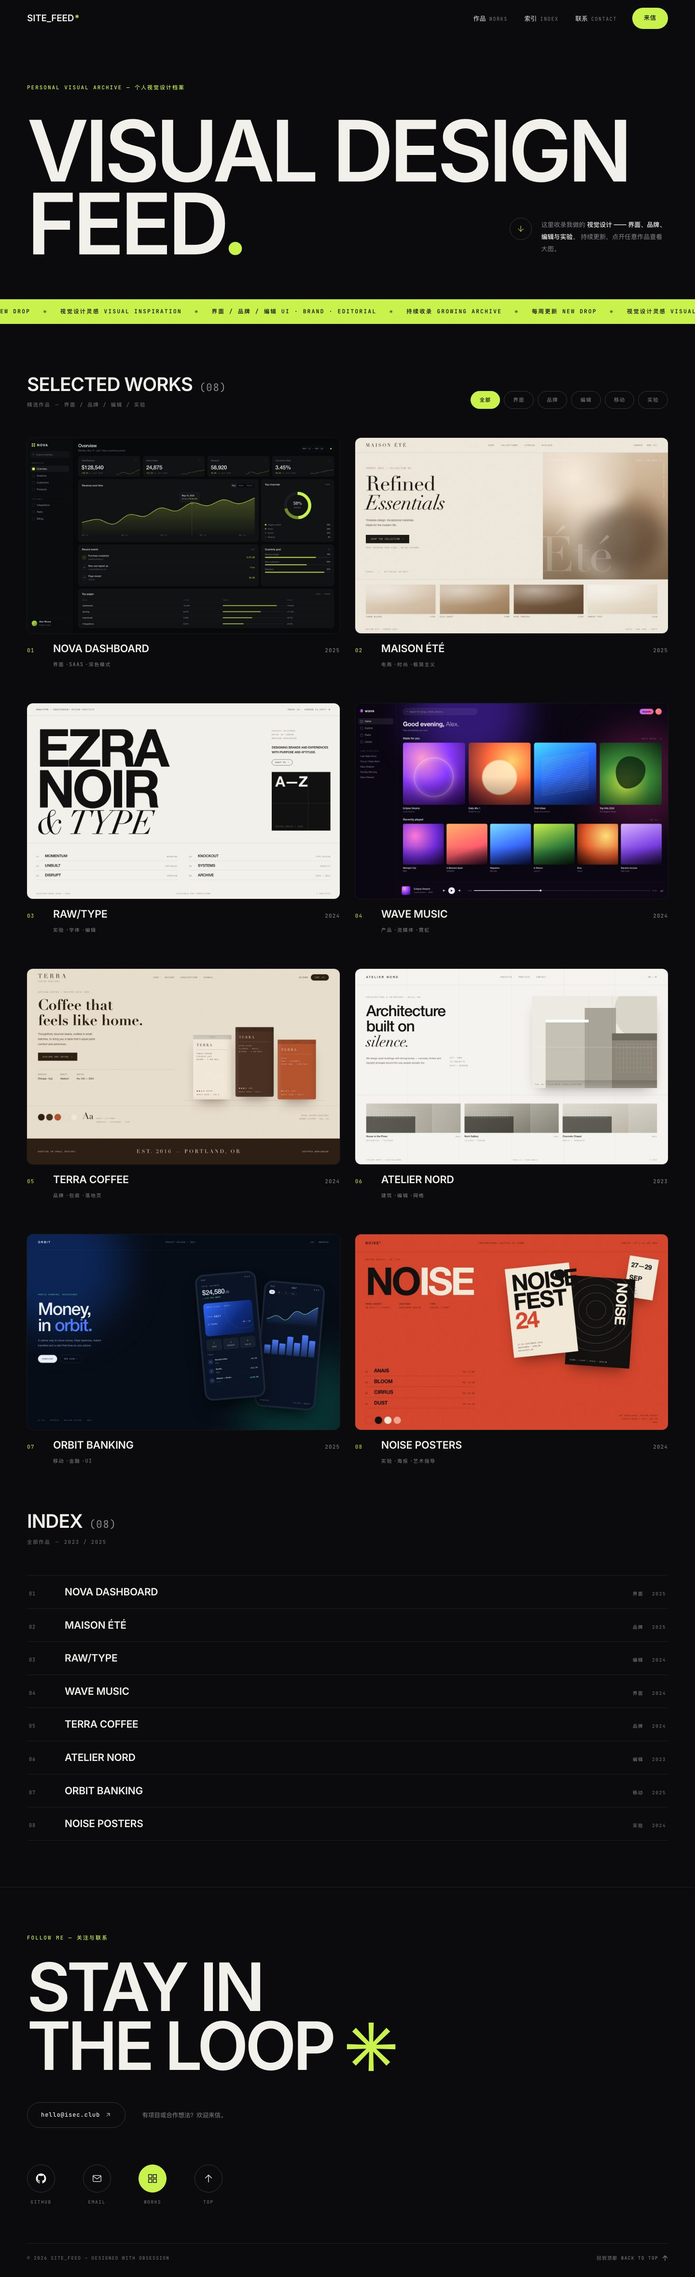
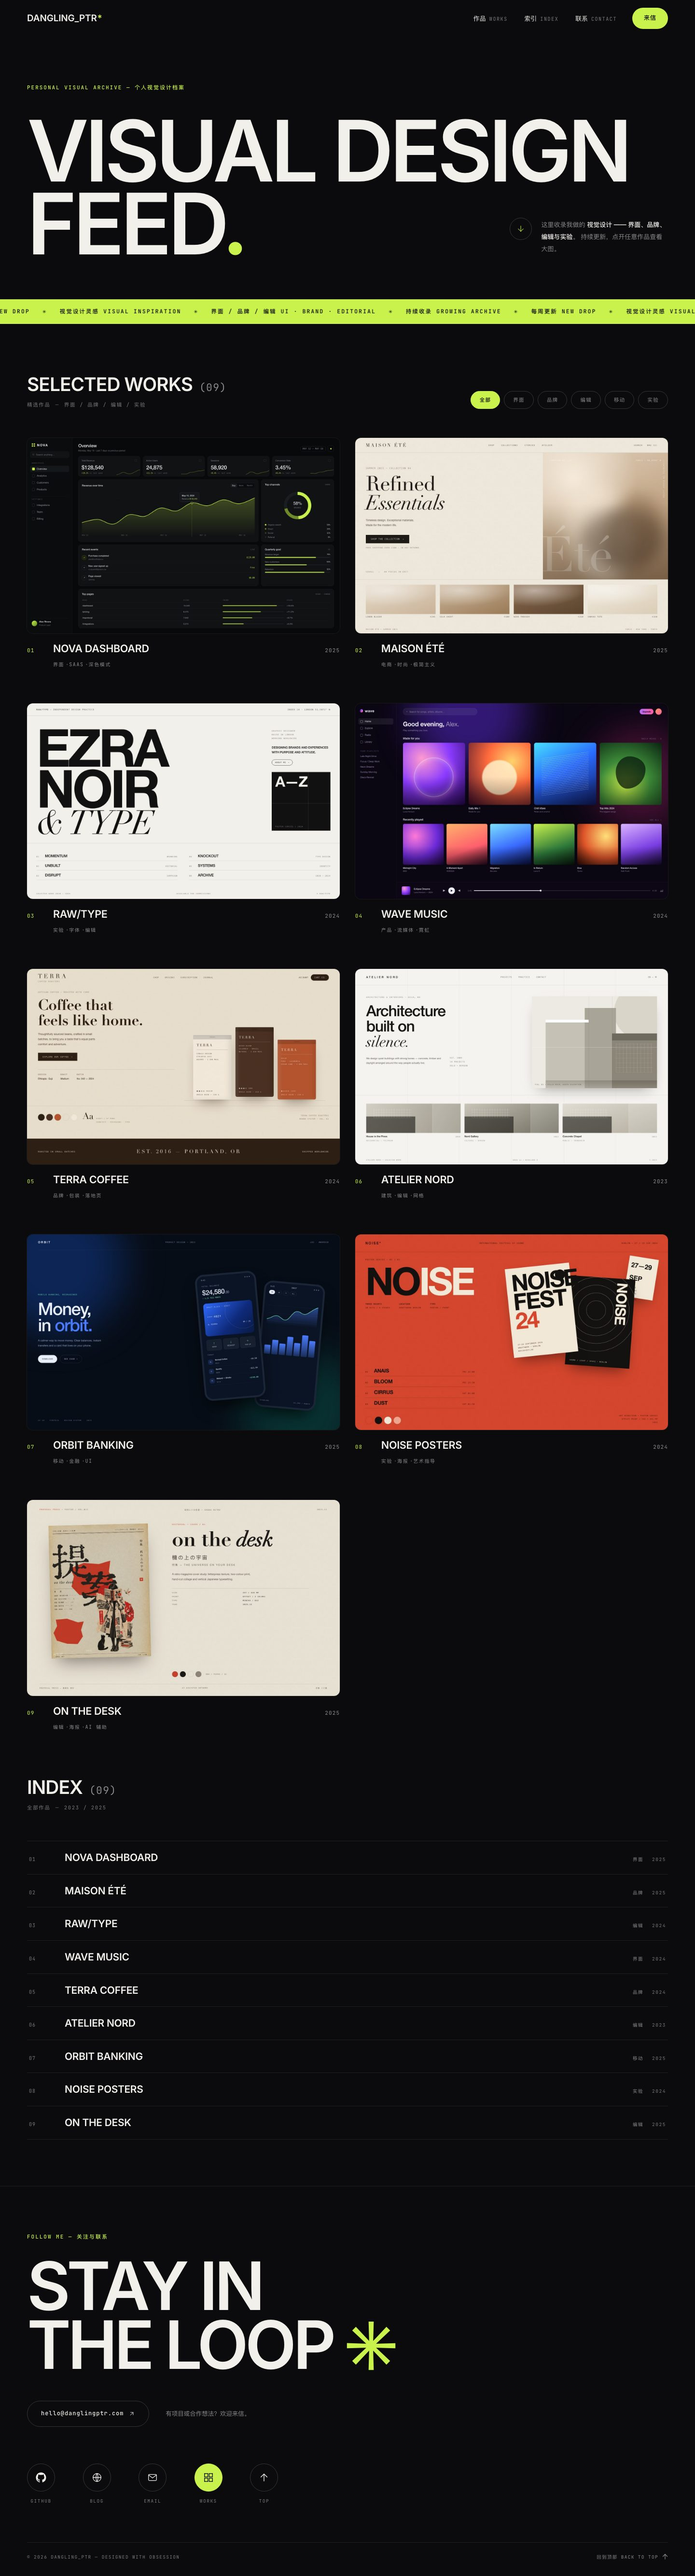
[更新] 手工补录数据档

diff --git a/index.html b/index.html
@@ -4,23 +4,23 @@
 <meta charset="utf-8">
 <script>document.documentElement.className = "js";</script>
 <meta name="viewport" content="width=device-width, initial-scale=1">
-<title>SITE_FEED — 视觉设计档案</title>
+<title>DANGLING_PTR — 视觉设计档案</title>
 <meta name="description" content="个人视觉设计档案：界面、品牌、编辑与实验。精选作品持续更新。">
-<meta name="author" content="SITE_FEED">
+<meta name="author" content="DANGLING_PTR">
 <meta name="theme-color" content="#0b0b0d">
-<link rel="canonical" href="https://isec.club/">
+<link rel="canonical" href="https://dr4g00n.github.io/">
 <link rel="icon" href="/images/favicon.svg" type="image/svg+xml">
 
 <meta property="og:type" content="website">
-<meta property="og:site_name" content="SITE_FEED">
-<meta property="og:title" content="SITE_FEED — 视觉设计档案">
+<meta property="og:site_name" content="DANGLING_PTR">
+<meta property="og:title" content="DANGLING_PTR — 视觉设计档案">
 <meta property="og:description" content="个人视觉设计档案：界面、品牌、编辑与实验。">
-<meta property="og:url" content="https://isec.club/">
-<meta property="og:image" content="https://isec.club/images/works/01-nova.jpg">
+<meta property="og:url" content="https://dr4g00n.github.io/">
+<meta property="og:image" content="https://dr4g00n.github.io/images/works/01-nova.jpg">
 <meta name="twitter:card" content="summary_large_image">
-<meta name="twitter:title" content="SITE_FEED — 视觉设计档案">
+<meta name="twitter:title" content="DANGLING_PTR — 视觉设计档案">
 <meta name="twitter:description" content="个人视觉设计档案：界面、品牌、编辑与实验。">
-<meta name="twitter:image" content="https://isec.club/images/works/01-nova.jpg">
+<meta name="twitter:image" content="https://dr4g00n.github.io/images/works/01-nova.jpg">
 
 <link rel="stylesheet" href="/css/fonts.css">
 <link rel="stylesheet" href="/css/feed.css">
@@ -29,8 +29,8 @@
 {
   "@context": "https://schema.org",
   "@type": "CollectionPage",
-  "name": "SITE_FEED — 视觉设计档案",
-  "url": "https://isec.club/",
+  "name": "DANGLING_PTR — 视觉设计档案",
+  "url": "https://dr4g00n.github.io/",
   "description": "个人视觉设计档案：界面、品牌、编辑与实验。"
 }
 </script>
@@ -41,7 +41,7 @@
 
 <header class="site-head" id="siteHead">
   <div class="wrap site-head__inner">
-    <a class="brand" href="/">SITE_FEED<span class="brand__mark">*</span></a>
+    <a class="brand" href="/">DANGLING_PTR<span class="brand__mark">*</span></a>
 
     <nav class="nav" aria-label="主导航">
       <a class="nav__link" href="#works">作品 <span>WORKS</span></a>
@@ -50,7 +50,7 @@
     </nav>
 
     <div class="site-head__actions">
-      <a class="btn btn--lime" href="mailto:hello@isec.club">来信</a>
+      <a class="btn btn--lime" href="mailto:hello@danglingptr.com">来信</a>
       <button class="burger" id="burger" aria-label="打开菜单" aria-expanded="false" aria-controls="mobileMenu">
         <span></span><span></span>
       </button>
@@ -63,11 +63,12 @@
     <a href="#works">作品 <span>WORKS</span></a>
     <a href="#index">索引 <span>INDEX</span></a>
     <a href="#contact">联系 <span>CONTACT</span></a>
-    <a href="mailto:hello@isec.club">来信 <span>EMAIL</span></a>
+    <a href="mailto:hello@danglingptr.com">来信 <span>EMAIL</span></a>
+    <a href="https://danglingptr.com" target="_blank" rel="noopener">博客 <span>BLOG</span></a>
   </nav>
   <div class="mobile-menu__foot">
-    <a href="mailto:hello@isec.club">hello@isec.club</a>
-    <span>© <span data-year>2026</span> SITE_FEED</span>
+    <a href="mailto:hello@danglingptr.com">hello@danglingptr.com</a>
+    <span>© <span data-year>2026</span> DANGLING_PTR</span>
   </div>
 </div>
 
@@ -116,7 +117,7 @@
     <div class="wrap">
       <div class="section__head">
         <div>
-          <h2 class="section__title">SELECTED WORKS <span class="count">(08)</span></h2>
+          <h2 class="section__title">SELECTED WORKS <span class="count">(09)</span></h2>
           <p class="section__sub">精选作品 － 界面 / 品牌 / 编辑 / 实验</p>
         </div>
 
@@ -236,6 +237,19 @@
           <p class="card__tags"><span>实验</span><span>海报</span><span>艺术指导</span></p>
         </a>
 
+        <a class="card reveal" href="/images/works/09-onthedesk.jpg" data-work data-img="/images/works/09-onthedesk.jpg" data-title="ON THE DESK" data-meta="编辑 · 海报 · 昭和复古 — 2025" data-tags="editorial">
+          <div class="card__media">
+            <img src="/images/works/09-onthedesk.jpg" width="1600" height="1000" alt="ON THE DESK — 昭和复古杂志封面设计" loading="lazy" decoding="async">
+            <span class="card__arrow" aria-hidden="true"><svg viewBox="0 0 24 24" fill="none" stroke="currentColor" stroke-width="1.6" stroke-linecap="round" stroke-linejoin="round"><path d="M7 17 17 7"/><path d="M8 7h9v9"/></svg></span>
+          </div>
+          <div class="card__caption">
+            <span class="card__idx">09</span>
+            <h3 class="card__title">ON THE DESK</h3>
+            <span class="card__year">2025</span>
+          </div>
+          <p class="card__tags"><span>编辑</span><span>海报</span><span>AI 辅助</span></p>
+        </a>
+
       </div>
     </div>
   </section>
@@ -244,7 +258,7 @@
     <div class="wrap">
       <div class="section__head">
         <div>
-          <h2 class="section__title">INDEX <span class="count">(08)</span></h2>
+          <h2 class="section__title">INDEX <span class="count">(09)</span></h2>
           <p class="section__sub">全部作品 － 2023 / 2025</p>
         </div>
       </div>
@@ -274,6 +288,10 @@
         <a class="idx" href="/images/works/08-noise.jpg" data-open="7" data-img="/images/works/08-noise.jpg" data-title="NOISE POSTERS" data-meta="实验 · 海报 · 艺术指导 — 2024">
           <span class="idx__num">08</span><span class="idx__title">Noise Posters</span><span class="idx__cat">实验</span><span class="idx__year">2024</span>
         </a>
+
+        <a class="idx" href="/images/works/09-onthedesk.jpg" data-open="8" data-img="/images/works/09-onthedesk.jpg" data-title="ON THE DESK" data-meta="编辑 · 海报 · 昭和复古 — 2025">
+          <span class="idx__num">09</span><span class="idx__title">On the Desk</span><span class="idx__cat">编辑</span><span class="idx__year">2025</span>
+        </a>
       </div>
     </div>
   </section>
@@ -286,8 +304,8 @@
     <h2 class="footer__headline">STAY IN<br>THE LOOP <span class="star">✳</span></h2>
 
     <div class="footer__contact">
-      <a class="btn btn--ghost" href="mailto:hello@isec.club">
-        hello@isec.club
+      <a class="btn btn--ghost" href="mailto:hello@danglingptr.com">
+        hello@danglingptr.com
         <svg class="btn__arrow" width="14" height="14" viewBox="0 0 24 24" fill="none" stroke="currentColor" stroke-width="1.6" stroke-linecap="round" stroke-linejoin="round" aria-hidden="true"><path d="M7 17 17 7"/><path d="M8 7h9v9"/></svg>
       </a>
       <p class="footer__note">有项目或合作想法？欢迎来信。</p>
@@ -301,7 +319,14 @@
         <span class="social__label">GITHUB</span>
       </a>
 
-      <a class="social" href="mailto:hello@isec.club">
+      <a class="social" href="https://danglingptr.com" target="_blank" rel="noopener">
+        <span class="social__circle">
+          <svg viewBox="0 0 24 24" fill="none" stroke="currentColor" stroke-width="1.4" stroke-linecap="round" stroke-linejoin="round" aria-hidden="true"><circle cx="12" cy="12" r="9"/><path d="M3 12h18"/><path d="M12 3c2.8 3.4 2.8 14.6 0 18"/><path d="M12 3c-2.8 3.4-2.8 14.6 0 18"/></svg>
+        </span>
+        <span class="social__label">BLOG</span>
+      </a>
+
+      <a class="social" href="mailto:hello@danglingptr.com">
         <span class="social__circle">
           <svg viewBox="0 0 24 24" fill="none" stroke="currentColor" stroke-width="1.4" stroke-linecap="round" stroke-linejoin="round" aria-hidden="true"><rect x="3" y="5" width="18" height="14" rx="2"/><path d="m3.5 6.5 8.5 6.5 8.5-6.5"/></svg>
         </span>
@@ -324,7 +349,7 @@
     </div>
 
     <div class="footer__bottom">
-      <span>© <span data-year>2026</span> SITE_FEED — DESIGNED WITH OBSESSION</span>
+      <span>© <span data-year>2026</span> DANGLING_PTR — DESIGNED WITH OBSESSION</span>
       <a class="footer__top" href="#main">
         回到顶部 BACK TO TOP
         <svg viewBox="0 0 12 12" fill="none" stroke="currentColor" stroke-width="1.2" stroke-linecap="round" stroke-linejoin="round" aria-hidden="true"><path d="M6 11V1"/><path d="M1.5 5.5 6 1l4.5 4.5"/></svg>

diff --git a/404.html b/404.html
@@ -4,7 +4,7 @@
 <meta charset="utf-8">
 <script>document.documentElement.className = "js";</script>
 <meta name="viewport" content="width=device-width, initial-scale=1">
-<title>404 — SITE_FEED</title>
+<title>404 — DANGLING_PTR</title>
 <meta name="description" content="页面不存在。">
 <meta name="robots" content="noindex">
 <meta name="theme-color" content="#0b0b0d">
@@ -18,14 +18,14 @@
 
 <header class="site-head" id="siteHead">
   <div class="wrap site-head__inner">
-    <a class="brand" href="/">SITE_FEED<span class="brand__mark">*</span></a>
+    <a class="brand" href="/">DANGLING_PTR<span class="brand__mark">*</span></a>
     <nav class="nav" aria-label="主导航">
       <a class="nav__link" href="/#works">作品 <span>WORKS</span></a>
       <a class="nav__link" href="/#index">索引 <span>INDEX</span></a>
       <a class="nav__link" href="/#contact">联系 <span>CONTACT</span></a>
     </nav>
     <div class="site-head__actions">
-      <a class="btn btn--lime" href="mailto:hello@isec.club">来信</a>
+      <a class="btn btn--lime" href="mailto:hello@danglingptr.com">来信</a>
       <button class="burger" id="burger" aria-label="打开菜单" aria-expanded="false" aria-controls="mobileMenu">
         <span></span><span></span>
       </button>
@@ -38,11 +38,11 @@
     <a href="/#works">作品 <span>WORKS</span></a>
     <a href="/#index">索引 <span>INDEX</span></a>
     <a href="/#contact">联系 <span>CONTACT</span></a>
-    <a href="mailto:hello@isec.club">来信 <span>EMAIL</span></a>
+    <a href="mailto:hello@danglingptr.com">来信 <span>EMAIL</span></a>
   </nav>
   <div class="mobile-menu__foot">
-    <a href="mailto:hello@isec.club">hello@isec.club</a>
-    <span>© <span data-year>2026</span> SITE_FEED</span>
+    <a href="mailto:hello@danglingptr.com">hello@danglingptr.com</a>
+    <span>© <span data-year>2026</span> DANGLING_PTR</span>
   </div>
 </div>
 
@@ -65,7 +65,7 @@
 <footer class="footer">
   <div class="wrap">
     <div class="footer__bottom" style="margin-top:0;border-top:0">
-      <span>© <span data-year>2026</span> SITE_FEED — DESIGNED WITH OBSESSION</span>
+      <span>© <span data-year>2026</span> DANGLING_PTR — DESIGNED WITH OBSESSION</span>
       <a class="footer__top" href="/#works">查看全部作品 →</a>
     </div>
   </div>

diff --git a/js/feed.js b/js/feed.js
@@ -1,4 +1,4 @@
-/* SITE_FEED — site interactions (no dependencies) */
+/* DANGLING_PTR — site interactions (no dependencies) */
 (function () {
   "use strict";
 

diff --git a/README.md b/README.md
@@ -1,11 +1,11 @@
-# SITE_FEED — 视觉设计档案
+# DANGLING_PTR — 视觉设计档案
 
 > 个人视觉设计作品集 · 界面 / 品牌 / 编辑 / 实验
-> 在线地址：<https://isec.club>
+> 在线地址：<https://dr4g00n.github.io>
 
 深色编辑风格的作品集网站：近黑底色 + 青柠强调色、超大号标题、编号作品网格、跑马灯与巨大页脚标语。纯静态 HTML/CSS/JS，无构建步骤、无框架、无第三方 JS 依赖。
 
-内容即设计图：8 件作品以 16:10 大图呈现，点开进入全屏查看器，没有文章页面。
+内容即设计图：9 件作品以 16:10 大图呈现，点开进入全屏查看器，没有文章页面。
 
 ---
 
@@ -29,7 +29,7 @@ python3 -m http.server 8000
 │   └── fonts.css           # 自托管字体 @font-face
 ├── js/feed.js              # 吸顶导航、移动菜单、筛选、灯箱、揭示动画
 ├── images/
-│   ├── works/              # 8 件作品图（1600×1000，兼作 og:image）
+│   ├── works/              # 9 件作品图（1600×1000，兼作 og:image）
 │   └── favicon.svg
 ├── lib/fonts/              # Inter / JetBrains Mono 变量字体子集
 ├── sitemap.xml / robots.txt
@@ -64,7 +64,7 @@ python3 -m http.server 8000
 1. 把设计图导出为 16:10（建议 1600×1000），命名为 `images/works/09-<slug>.jpg`。
 2. 在 `index.html` 的 `.works` 中复制一张卡片，改 `data-img` / `data-title` / `data-meta` / `data-tags`、编号、标题、年份与标签。
 3. 在 `#index` 的 `.indexlist` 中加一行，`data-open` 填新作品在卡片中的序号（从 0 开始）。
-4. 同步修改两处的 `(08)` 计数，并更新 `sitemap.xml` 的 `lastmod`。
+4. 同步修改两处的 `(09)` 计数，并更新 `sitemap.xml` 的 `lastmod`。
 
 分类取值：`ui` / `brand` / `editorial` / `mobile` / `lab`（对应筛选 chips）。
 
@@ -86,5 +86,5 @@ python3 -m http.server 8000
 
 ## 联系
 
-- Email: <hello@isec.club>
+- Email: <hello@danglingptr.com>
 - GitHub: [@dr4g00n](https://github.com/dr4g00n)
